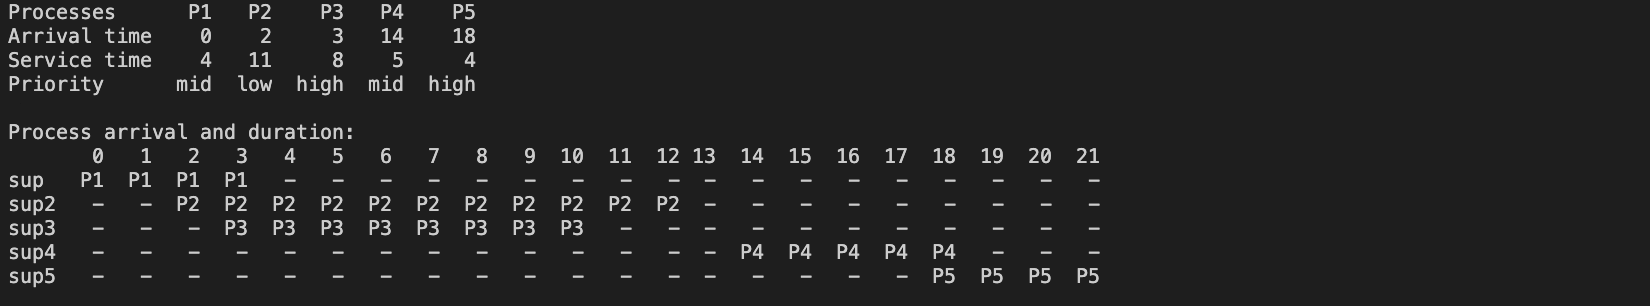
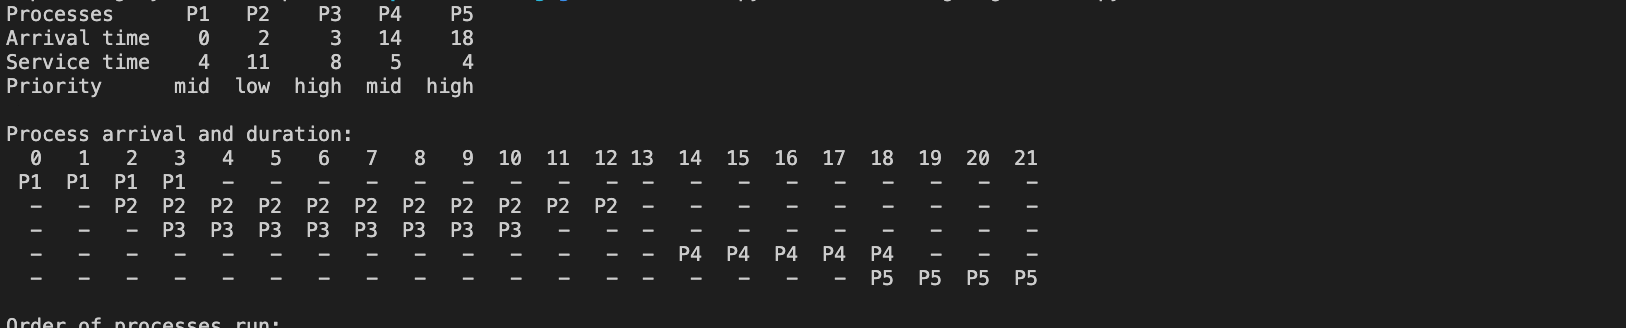
edited objective png

diff --git a/cpu-scheduling/scheduling-algorithms.py b/cpu-scheduling/scheduling-algorithms.py
@@ -20,7 +20,7 @@ arrival = {
 }
 arrival = pd.DataFrame(data=arrival)
 print("Process arrival and duration:")
-print(arrival.T) 
+print(arrival.T.to_string(index=False))
 
 print() #newline
 
